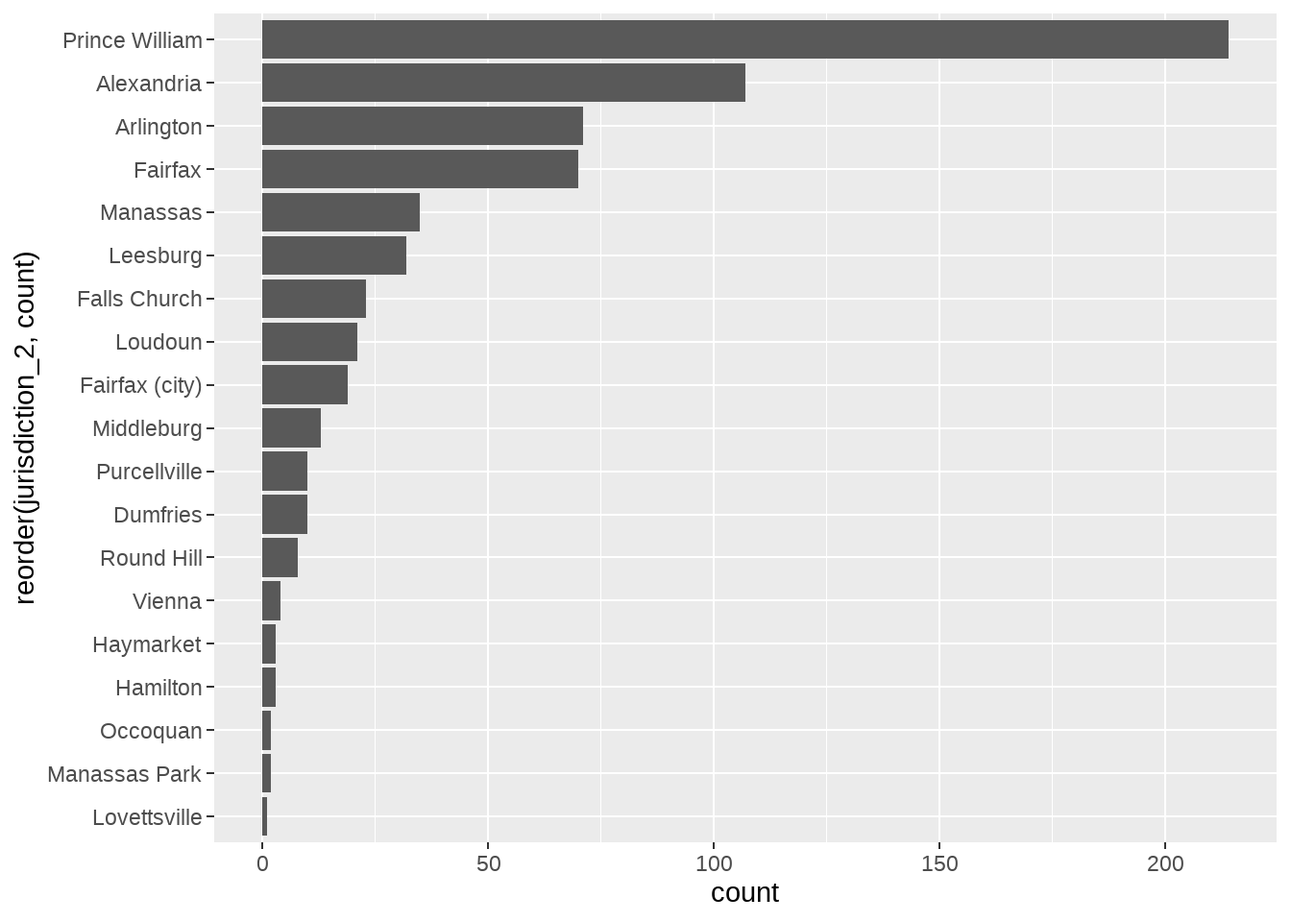
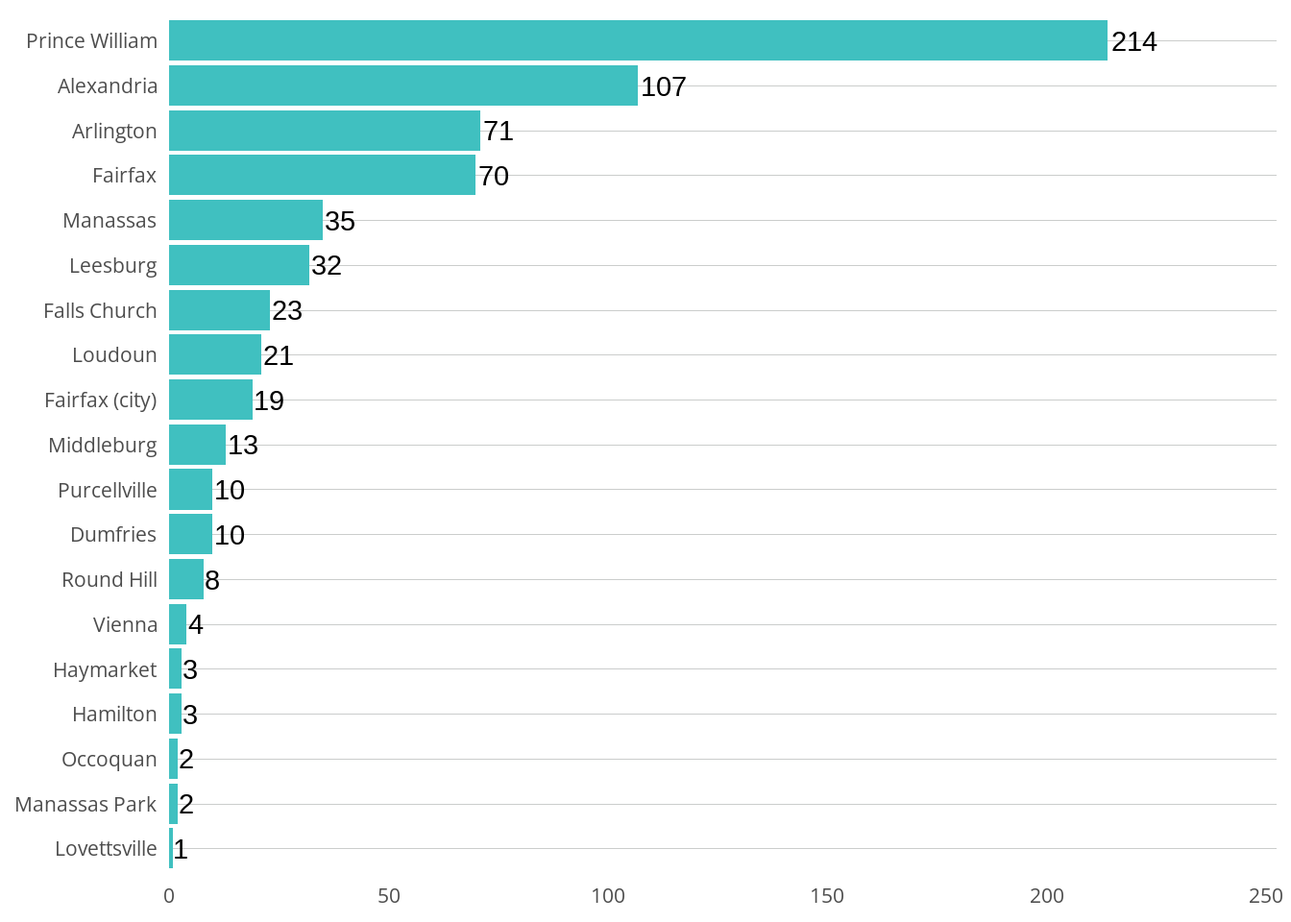
fix messed up nova plots

diff --git a/docs/site_libs/clipboard/clipboard.min.js b/docs/site_libs/clipboard/clipboard.min.js
@@ -1,7 +1,7 @@
 /*!
- * clipboard.js v2.0.10
+ * clipboard.js v2.0.11
  * https://clipboardjs.com/
  *
  * Licensed MIT © Zeno Rocha
  */
-!function(t,e){"object"==typeof exports&&"object"==typeof module?module.exports=e():"function"==typeof define&&define.amd?define([],e):"object"==typeof exports?exports.ClipboardJS=e():t.ClipboardJS=e()}(this,function(){return n={686:function(t,e,n){"use strict";n.d(e,{default:function(){return o}});var e=n(279),i=n.n(e),e=n(370),u=n.n(e),e=n(817),c=n.n(e);function a(t){try{return document.execCommand(t)}catch(t){return}}var f=function(t){t=c()(t);return a("cut"),t};var l=function(t){var e,n,o,r=1<arguments.length&&void 0!==arguments[1]?arguments[1]:{container:document.body},i="";return"string"==typeof t?(e=t,n="rtl"===document.documentElement.getAttribute("dir"),(o=document.createElement("textarea")).style.fontSize="12pt",o.style.border="0",o.style.padding="0",o.style.margin="0",o.style.position="absolute",o.style[n?"right":"left"]="-9999px",n=window.pageYOffset||document.documentElement.scrollTop,o.style.top="".concat(n,"px"),o.setAttribute("readonly",""),o.value=e,o=o,r.container.appendChild(o),i=c()(o),a("copy"),o.remove()):(i=c()(t),a("copy")),i};function r(t){return(r="function"==typeof Symbol&&"symbol"==typeof Symbol.iterator?function(t){return typeof t}:function(t){return t&&"function"==typeof Symbol&&t.constructor===Symbol&&t!==Symbol.prototype?"symbol":typeof t})(t)}var s=function(){var t=0<arguments.length&&void 0!==arguments[0]?arguments[0]:{},e=t.action,n=void 0===e?"copy":e,o=t.container,e=t.target,t=t.text;if("copy"!==n&&"cut"!==n)throw new Error('Invalid "action" value, use either "copy" or "cut"');if(void 0!==e){if(!e||"object"!==r(e)||1!==e.nodeType)throw new Error('Invalid "target" value, use a valid Element');if("copy"===n&&e.hasAttribute("disabled"))throw new Error('Invalid "target" attribute. Please use "readonly" instead of "disabled" attribute');if("cut"===n&&(e.hasAttribute("readonly")||e.hasAttribute("disabled")))throw new Error('Invalid "target" attribute. You can\'t cut text from elements with "readonly" or "disabled" attributes')}return t?l(t,{container:o}):e?"cut"===n?f(e):l(e,{container:o}):void 0};function p(t){return(p="function"==typeof Symbol&&"symbol"==typeof Symbol.iterator?function(t){return typeof t}:function(t){return t&&"function"==typeof Symbol&&t.constructor===Symbol&&t!==Symbol.prototype?"symbol":typeof t})(t)}function d(t,e){for(var n=0;n<e.length;n++){var o=e[n];o.enumerable=o.enumerable||!1,o.configurable=!0,"value"in o&&(o.writable=!0),Object.defineProperty(t,o.key,o)}}function y(t,e){return(y=Object.setPrototypeOf||function(t,e){return t.__proto__=e,t})(t,e)}function h(n){var o=function(){if("undefined"==typeof Reflect||!Reflect.construct)return!1;if(Reflect.construct.sham)return!1;if("function"==typeof Proxy)return!0;try{return Date.prototype.toString.call(Reflect.construct(Date,[],function(){})),!0}catch(t){return!1}}();return function(){var t,e=m(n);return t=o?(t=m(this).constructor,Reflect.construct(e,arguments,t)):e.apply(this,arguments),e=this,!(t=t)||"object"!==p(t)&&"function"!=typeof t?function(t){if(void 0!==t)return t;throw new ReferenceError("this hasn't been initialised - super() hasn't been called")}(e):t}}function m(t){return(m=Object.setPrototypeOf?Object.getPrototypeOf:function(t){return t.__proto__||Object.getPrototypeOf(t)})(t)}function v(t,e){t="data-clipboard-".concat(t);if(e.hasAttribute(t))return e.getAttribute(t)}var o=function(){!function(t,e){if("function"!=typeof e&&null!==e)throw new TypeError("Super expression must either be null or a function");t.prototype=Object.create(e&&e.prototype,{constructor:{value:t,writable:!0,configurable:!0}}),e&&y(t,e)}(r,i());var t,e,n,o=h(r);function r(t,e){var n;return function(t){if(!(t instanceof r))throw new TypeError("Cannot call a class as a function")}(this),(n=o.call(this)).resolveOptions(e),n.listenClick(t),n}return t=r,n=[{key:"copy",value:function(t){var e=1<arguments.length&&void 0!==arguments[1]?arguments[1]:{container:document.body};return l(t,e)}},{key:"cut",value:function(t){return f(t)}},{key:"isSupported",value:function(){var t=0<arguments.length&&void 0!==arguments[0]?arguments[0]:["copy","cut"],t="string"==typeof t?[t]:t,e=!!document.queryCommandSupported;return t.forEach(function(t){e=e&&!!document.queryCommandSupported(t)}),e}}],(e=[{key:"resolveOptions",value:function(){var t=0<arguments.length&&void 0!==arguments[0]?arguments[0]:{};this.action="function"==typeof t.action?t.action:this.defaultAction,this.target="function"==typeof t.target?t.target:this.defaultTarget,this.text="function"==typeof t.text?t.text:this.defaultText,this.container="object"===p(t.container)?t.container:document.body}},{key:"listenClick",value:function(t){var e=this;this.listener=u()(t,"click",function(t){return e.onClick(t)})}},{key:"onClick",value:function(t){var e=t.delegateTarget||t.currentTarget,n=this.action(e)||"copy",t=s({action:n,container:this.container,target:this.target(e),text:this.text(e)});this.emit(t?"success":"error",{action:n,text:t,trigger:e,clearSelection:function(){e&&e.focus(),document.activeElement.blur(),window.getSelection().removeAllRanges()}})}},{key:"defaultAction",value:function(t){return v("action",t)}},{key:"defaultTarget",value:function(t){t=v("target",t);if(t)return document.querySelector(t)}},{key:"defaultText",value:function(t){return v("text",t)}},{key:"destroy",value:function(){this.listener.destroy()}}])&&d(t.prototype,e),n&&d(t,n),r}()},828:function(t){var e;"undefined"==typeof Element||Element.prototype.matches||((e=Element.prototype).matches=e.matchesSelector||e.mozMatchesSelector||e.msMatchesSelector||e.oMatchesSelector||e.webkitMatchesSelector),t.exports=function(t,e){for(;t&&9!==t.nodeType;){if("function"==typeof t.matches&&t.matches(e))return t;t=t.parentNode}}},438:function(t,e,n){var u=n(828);function i(t,e,n,o,r){var i=function(e,n,t,o){return function(t){t.delegateTarget=u(t.target,n),t.delegateTarget&&o.call(e,t)}}.apply(this,arguments);return t.addEventListener(n,i,r),{destroy:function(){t.removeEventListener(n,i,r)}}}t.exports=function(t,e,n,o,r){return"function"==typeof t.addEventListener?i.apply(null,arguments):"function"==typeof n?i.bind(null,document).apply(null,arguments):("string"==typeof t&&(t=document.querySelectorAll(t)),Array.prototype.map.call(t,function(t){return i(t,e,n,o,r)}))}},879:function(t,n){n.node=function(t){return void 0!==t&&t instanceof HTMLElement&&1===t.nodeType},n.nodeList=function(t){var e=Object.prototype.toString.call(t);return void 0!==t&&("[object NodeList]"===e||"[object HTMLCollection]"===e)&&"length"in t&&(0===t.length||n.node(t[0]))},n.string=function(t){return"string"==typeof t||t instanceof String},n.fn=function(t){return"[object Function]"===Object.prototype.toString.call(t)}},370:function(t,e,n){var f=n(879),l=n(438);t.exports=function(t,e,n){if(!t&&!e&&!n)throw new Error("Missing required arguments");if(!f.string(e))throw new TypeError("Second argument must be a String");if(!f.fn(n))throw new TypeError("Third argument must be a Function");if(f.node(t))return c=e,a=n,(u=t).addEventListener(c,a),{destroy:function(){u.removeEventListener(c,a)}};if(f.nodeList(t))return o=t,r=e,i=n,Array.prototype.forEach.call(o,function(t){t.addEventListener(r,i)}),{destroy:function(){Array.prototype.forEach.call(o,function(t){t.removeEventListener(r,i)})}};if(f.string(t))return t=t,e=e,n=n,l(document.body,t,e,n);throw new TypeError("First argument must be a String, HTMLElement, HTMLCollection, or NodeList");var o,r,i,u,c,a}},817:function(t){t.exports=function(t){var e,n="SELECT"===t.nodeName?(t.focus(),t.value):"INPUT"===t.nodeName||"TEXTAREA"===t.nodeName?((e=t.hasAttribute("readonly"))||t.setAttribute("readonly",""),t.select(),t.setSelectionRange(0,t.value.length),e||t.removeAttribute("readonly"),t.value):(t.hasAttribute("contenteditable")&&t.focus(),n=window.getSelection(),(e=document.createRange()).selectNodeContents(t),n.removeAllRanges(),n.addRange(e),n.toString());return n}},279:function(t){function e(){}e.prototype={on:function(t,e,n){var o=this.e||(this.e={});return(o[t]||(o[t]=[])).push({fn:e,ctx:n}),this},once:function(t,e,n){var o=this;function r(){o.off(t,r),e.apply(n,arguments)}return r._=e,this.on(t,r,n)},emit:function(t){for(var e=[].slice.call(arguments,1),n=((this.e||(this.e={}))[t]||[]).slice(),o=0,r=n.length;o<r;o++)n[o].fn.apply(n[o].ctx,e);return this},off:function(t,e){var n=this.e||(this.e={}),o=n[t],r=[];if(o&&e)for(var i=0,u=o.length;i<u;i++)o[i].fn!==e&&o[i].fn._!==e&&r.push(o[i]);return r.length?n[t]=r:delete n[t],this}},t.exports=e,t.exports.TinyEmitter=e}},r={},o.n=function(t){var e=t&&t.__esModule?function(){return t.default}:function(){return t};return o.d(e,{a:e}),e},o.d=function(t,e){for(var n in e)o.o(e,n)&&!o.o(t,n)&&Object.defineProperty(t,n,{enumerable:!0,get:e[n]})},o.o=function(t,e){return Object.prototype.hasOwnProperty.call(t,e)},o(686).default;function o(t){if(r[t])return r[t].exports;var e=r[t]={exports:{}};return n[t](e,e.exports,o),e.exports}var n,r});
+!function(t,e){"object"==typeof exports&&"object"==typeof module?module.exports=e():"function"==typeof define&&define.amd?define([],e):"object"==typeof exports?exports.ClipboardJS=e():t.ClipboardJS=e()}(this,function(){return n={686:function(t,e,n){"use strict";n.d(e,{default:function(){return b}});var e=n(279),i=n.n(e),e=n(370),u=n.n(e),e=n(817),r=n.n(e);function c(t){try{return document.execCommand(t)}catch(t){return}}var a=function(t){t=r()(t);return c("cut"),t};function o(t,e){var n,o,t=(n=t,o="rtl"===document.documentElement.getAttribute("dir"),(t=document.createElement("textarea")).style.fontSize="12pt",t.style.border="0",t.style.padding="0",t.style.margin="0",t.style.position="absolute",t.style[o?"right":"left"]="-9999px",o=window.pageYOffset||document.documentElement.scrollTop,t.style.top="".concat(o,"px"),t.setAttribute("readonly",""),t.value=n,t);return e.container.appendChild(t),e=r()(t),c("copy"),t.remove(),e}var f=function(t){var e=1<arguments.length&&void 0!==arguments[1]?arguments[1]:{container:document.body},n="";return"string"==typeof t?n=o(t,e):t instanceof HTMLInputElement&&!["text","search","url","tel","password"].includes(null==t?void 0:t.type)?n=o(t.value,e):(n=r()(t),c("copy")),n};function l(t){return(l="function"==typeof Symbol&&"symbol"==typeof Symbol.iterator?function(t){return typeof t}:function(t){return t&&"function"==typeof Symbol&&t.constructor===Symbol&&t!==Symbol.prototype?"symbol":typeof t})(t)}var s=function(){var t=0<arguments.length&&void 0!==arguments[0]?arguments[0]:{},e=t.action,n=void 0===e?"copy":e,o=t.container,e=t.target,t=t.text;if("copy"!==n&&"cut"!==n)throw new Error('Invalid "action" value, use either "copy" or "cut"');if(void 0!==e){if(!e||"object"!==l(e)||1!==e.nodeType)throw new Error('Invalid "target" value, use a valid Element');if("copy"===n&&e.hasAttribute("disabled"))throw new Error('Invalid "target" attribute. Please use "readonly" instead of "disabled" attribute');if("cut"===n&&(e.hasAttribute("readonly")||e.hasAttribute("disabled")))throw new Error('Invalid "target" attribute. You can\'t cut text from elements with "readonly" or "disabled" attributes')}return t?f(t,{container:o}):e?"cut"===n?a(e):f(e,{container:o}):void 0};function p(t){return(p="function"==typeof Symbol&&"symbol"==typeof Symbol.iterator?function(t){return typeof t}:function(t){return t&&"function"==typeof Symbol&&t.constructor===Symbol&&t!==Symbol.prototype?"symbol":typeof t})(t)}function d(t,e){for(var n=0;n<e.length;n++){var o=e[n];o.enumerable=o.enumerable||!1,o.configurable=!0,"value"in o&&(o.writable=!0),Object.defineProperty(t,o.key,o)}}function y(t,e){return(y=Object.setPrototypeOf||function(t,e){return t.__proto__=e,t})(t,e)}function h(n){var o=function(){if("undefined"==typeof Reflect||!Reflect.construct)return!1;if(Reflect.construct.sham)return!1;if("function"==typeof Proxy)return!0;try{return Date.prototype.toString.call(Reflect.construct(Date,[],function(){})),!0}catch(t){return!1}}();return function(){var t,e=v(n);return t=o?(t=v(this).constructor,Reflect.construct(e,arguments,t)):e.apply(this,arguments),e=this,!(t=t)||"object"!==p(t)&&"function"!=typeof t?function(t){if(void 0!==t)return t;throw new ReferenceError("this hasn't been initialised - super() hasn't been called")}(e):t}}function v(t){return(v=Object.setPrototypeOf?Object.getPrototypeOf:function(t){return t.__proto__||Object.getPrototypeOf(t)})(t)}function m(t,e){t="data-clipboard-".concat(t);if(e.hasAttribute(t))return e.getAttribute(t)}var b=function(){!function(t,e){if("function"!=typeof e&&null!==e)throw new TypeError("Super expression must either be null or a function");t.prototype=Object.create(e&&e.prototype,{constructor:{value:t,writable:!0,configurable:!0}}),e&&y(t,e)}(r,i());var t,e,n,o=h(r);function r(t,e){var n;return function(t){if(!(t instanceof r))throw new TypeError("Cannot call a class as a function")}(this),(n=o.call(this)).resolveOptions(e),n.listenClick(t),n}return t=r,n=[{key:"copy",value:function(t){var e=1<arguments.length&&void 0!==arguments[1]?arguments[1]:{container:document.body};return f(t,e)}},{key:"cut",value:function(t){return a(t)}},{key:"isSupported",value:function(){var t=0<arguments.length&&void 0!==arguments[0]?arguments[0]:["copy","cut"],t="string"==typeof t?[t]:t,e=!!document.queryCommandSupported;return t.forEach(function(t){e=e&&!!document.queryCommandSupported(t)}),e}}],(e=[{key:"resolveOptions",value:function(){var t=0<arguments.length&&void 0!==arguments[0]?arguments[0]:{};this.action="function"==typeof t.action?t.action:this.defaultAction,this.target="function"==typeof t.target?t.target:this.defaultTarget,this.text="function"==typeof t.text?t.text:this.defaultText,this.container="object"===p(t.container)?t.container:document.body}},{key:"listenClick",value:function(t){var e=this;this.listener=u()(t,"click",function(t){return e.onClick(t)})}},{key:"onClick",value:function(t){var e=t.delegateTarget||t.currentTarget,n=this.action(e)||"copy",t=s({action:n,container:this.container,target:this.target(e),text:this.text(e)});this.emit(t?"success":"error",{action:n,text:t,trigger:e,clearSelection:function(){e&&e.focus(),window.getSelection().removeAllRanges()}})}},{key:"defaultAction",value:function(t){return m("action",t)}},{key:"defaultTarget",value:function(t){t=m("target",t);if(t)return document.querySelector(t)}},{key:"defaultText",value:function(t){return m("text",t)}},{key:"destroy",value:function(){this.listener.destroy()}}])&&d(t.prototype,e),n&&d(t,n),r}()},828:function(t){var e;"undefined"==typeof Element||Element.prototype.matches||((e=Element.prototype).matches=e.matchesSelector||e.mozMatchesSelector||e.msMatchesSelector||e.oMatchesSelector||e.webkitMatchesSelector),t.exports=function(t,e){for(;t&&9!==t.nodeType;){if("function"==typeof t.matches&&t.matches(e))return t;t=t.parentNode}}},438:function(t,e,n){var u=n(828);function i(t,e,n,o,r){var i=function(e,n,t,o){return function(t){t.delegateTarget=u(t.target,n),t.delegateTarget&&o.call(e,t)}}.apply(this,arguments);return t.addEventListener(n,i,r),{destroy:function(){t.removeEventListener(n,i,r)}}}t.exports=function(t,e,n,o,r){return"function"==typeof t.addEventListener?i.apply(null,arguments):"function"==typeof n?i.bind(null,document).apply(null,arguments):("string"==typeof t&&(t=document.querySelectorAll(t)),Array.prototype.map.call(t,function(t){return i(t,e,n,o,r)}))}},879:function(t,n){n.node=function(t){return void 0!==t&&t instanceof HTMLElement&&1===t.nodeType},n.nodeList=function(t){var e=Object.prototype.toString.call(t);return void 0!==t&&("[object NodeList]"===e||"[object HTMLCollection]"===e)&&"length"in t&&(0===t.length||n.node(t[0]))},n.string=function(t){return"string"==typeof t||t instanceof String},n.fn=function(t){return"[object Function]"===Object.prototype.toString.call(t)}},370:function(t,e,n){var f=n(879),l=n(438);t.exports=function(t,e,n){if(!t&&!e&&!n)throw new Error("Missing required arguments");if(!f.string(e))throw new TypeError("Second argument must be a String");if(!f.fn(n))throw new TypeError("Third argument must be a Function");if(f.node(t))return c=e,a=n,(u=t).addEventListener(c,a),{destroy:function(){u.removeEventListener(c,a)}};if(f.nodeList(t))return o=t,r=e,i=n,Array.prototype.forEach.call(o,function(t){t.addEventListener(r,i)}),{destroy:function(){Array.prototype.forEach.call(o,function(t){t.removeEventListener(r,i)})}};if(f.string(t))return t=t,e=e,n=n,l(document.body,t,e,n);throw new TypeError("First argument must be a String, HTMLElement, HTMLCollection, or NodeList");var o,r,i,u,c,a}},817:function(t){t.exports=function(t){var e,n="SELECT"===t.nodeName?(t.focus(),t.value):"INPUT"===t.nodeName||"TEXTAREA"===t.nodeName?((e=t.hasAttribute("readonly"))||t.setAttribute("readonly",""),t.select(),t.setSelectionRange(0,t.value.length),e||t.removeAttribute("readonly"),t.value):(t.hasAttribute("contenteditable")&&t.focus(),n=window.getSelection(),(e=document.createRange()).selectNodeContents(t),n.removeAllRanges(),n.addRange(e),n.toString());return n}},279:function(t){function e(){}e.prototype={on:function(t,e,n){var o=this.e||(this.e={});return(o[t]||(o[t]=[])).push({fn:e,ctx:n}),this},once:function(t,e,n){var o=this;function r(){o.off(t,r),e.apply(n,arguments)}return r._=e,this.on(t,r,n)},emit:function(t){for(var e=[].slice.call(arguments,1),n=((this.e||(this.e={}))[t]||[]).slice(),o=0,r=n.length;o<r;o++)n[o].fn.apply(n[o].ctx,e);return this},off:function(t,e){var n=this.e||(this.e={}),o=n[t],r=[];if(o&&e)for(var i=0,u=o.length;i<u;i++)o[i].fn!==e&&o[i].fn._!==e&&r.push(o[i]);return r.length?n[t]=r:delete n[t],this}},t.exports=e,t.exports.TinyEmitter=e}},r={},o.n=function(t){var e=t&&t.__esModule?function(){return t.default}:function(){return t};return o.d(e,{a:e}),e},o.d=function(t,e){for(var n in e)o.o(e,n)&&!o.o(t,n)&&Object.defineProperty(t,n,{enumerable:!0,get:e[n]})},o.o=function(t,e){return Object.prototype.hasOwnProperty.call(t,e)},o(686).default;function o(t){if(r[t])return r[t].exports;var e=r[t]={exports:{}};return n[t](e,e.exports,o),e.exports}var n,r});

diff --git a/docs/part-2.html b/docs/part-2.html
@@ -495,17 +495,6 @@ James City
 </div>
 </div>
 <div class="cell">
-<div class="cell-output cell-output-stdout">
-<pre><code>function (x) 
-{
-    number(x, accuracy = accuracy, scale = scale, prefix = prefix, 
-        suffix = suffix, big.mark = big.mark, decimal.mark = decimal.mark, 
-        style_positive = style_positive, style_negative = style_negative, 
-        scale_cut = scale_cut, trim = trim, ...)
-}
-&lt;bytecode: 0x0000019d9ca2d450&gt;
-&lt;environment: 0x0000019d9d87adb8&gt;</code></pre>
-</div>
 <div class="cell-output-display">
 <div id="fig-nova-acres" class="quarto-figure quarto-figure-center anchored">
 <figure class="figure">
@@ -522,8 +511,8 @@ James City
 <div class="quarto-layout-row quarto-layout-valign-top">
 <div class="cell-output-display quarto-layout-cell" style="flex-basis: 100.0%;justify-content: center;">
 
-<div class="datatables html-widget html-fill-item" id="htmlwidget-f1d735c3bddcad078c95" style="width:100%;height:auto;"></div>
-<script type="application/json" data-for="htmlwidget-f1d735c3bddcad078c95">{"x":{"style":"bootstrap","filter":"none","vertical":false,"caption":"<caption style=\"caption-side: top; text-align: left; color: grey; font-size: 20px; &#10;            font-family: &quot;Open Sans&quot;, sans-serif;&#10;            padding-bottom: 20px;&#10;            font-weight: bold;&#10;            \">Percent of parcels zoned by-right<\/caption>","fillContainer":true,"data":[["Alexandria","Arlington","Dumfries","Fairfax","Fairfax (city)","Falls Church","Hamilton","Haymarket","Leesburg","Loudoun","Lovettsville","Manassas","Manassas Park","Middleburg","Occoquan","Prince William","Purcellville","Round Hill","Vienna"],[107,71,10,70,19,23,3,3,32,21,1,35,2,13,2,214,10,8,4],[0.972,0.7465000000000001,0.5,0.4857,0.5789,0.7826000000000001,1,1,0.875,0.2381,1,0.6,1,1,0,0.7290000000000001,0.6,1,0.75],[0.972,0.7042,0.6,0.2286,0,0.5217000000000001,0,1,0.7188,0,0,0.2286,0,0.3846,0,0.1215,0.1,0.125,0.25],[0.8504999999999999,0.7042,0.1,0.0429,0,0.4348,0,0,0.25,0,0,0.2286,0,0.3077,0,0.1308,0,0.125,0.25]],"container":"<table class=\"table table-striped table-hover row-border order-column display fill-container\">\n  <thead>\n    <tr>\n      <th>Jurisdiction<\/th>\n      <th>Parcel Count<\/th>\n      <th>Single-Family<\/th>\n      <th>Duplex<\/th>\n      <th>Multifamily<\/th>\n    <\/tr>\n  <\/thead>\n<\/table>","options":{"pageLength":-1,"dom":"t","scrollY":"400px","scrollCollapse":true,"initComplete":"function(settings, json) {\n$(this.api().table().header()).css({'font-family': 'Open Sans'});\n}","columnDefs":[{"targets":2,"render":"function(data, type, row, meta) {\n    return type !== 'display' ? data : DTWidget.formatPercentage(data, 1, 3, \",\", \".\", null);\n  }"},{"targets":3,"render":"function(data, type, row, meta) {\n    return type !== 'display' ? data : DTWidget.formatPercentage(data, 1, 3, \",\", \".\", null);\n  }"},{"targets":4,"render":"function(data, type, row, meta) {\n    return type !== 'display' ? data : DTWidget.formatPercentage(data, 1, 3, \",\", \".\", null);\n  }"},{"className":"dt-center","targets":[1,2,3,4]},{"name":"jurisdiction","targets":0},{"name":"parcels","targets":1},{"name":"single_fam","targets":2},{"name":"duplex","targets":3},{"name":"multifamily","targets":4}],"order":[],"autoWidth":false,"orderClasses":false,"lengthMenu":[-1,10,25,50,100],"rowCallback":"function(row, data, displayNum, displayIndex, dataIndex) {\nvar value=data[2]; $(this.api().cell(row, 2).node()).css({'background':isNaN(parseFloat(value)) || value <= 0.000000 ? '' : 'linear-gradient(90.000000deg, transparent ' + Math.max(1.000000 - value, 0)/1.000000 * 100 + '%, #40c0c0 ' + Math.max(1.000000 - value, 0)/1.000000 * 100 + '%)','background-size':'98% 88%','background-repeat':'no-repeat','background-position':'center'});\nvar value=data[3]; $(this.api().cell(row, 3).node()).css({'background':isNaN(parseFloat(value)) || value <= 0.000000 ? '' : 'linear-gradient(90.000000deg, transparent ' + Math.max(1.000000 - value, 0)/1.000000 * 100 + '%, #8b85ca ' + Math.max(1.000000 - value, 0)/1.000000 * 100 + '%)','background-size':'98% 88%','background-repeat':'no-repeat','background-position':'center'});\nvar value=data[4]; $(this.api().cell(row, 4).node()).css({'background':isNaN(parseFloat(value)) || value <= 0.000000 ? '' : 'linear-gradient(90.000000deg, transparent ' + Math.max(0.850500 - value, 0)/0.850500 * 100 + '%, #011e41 ' + Math.max(0.850500 - value, 0)/0.850500 * 100 + '%)','background-size':'98% 88%','background-repeat':'no-repeat','background-position':'center'});\nvar value=data[0]; $(this.api().cell(row, 0).node()).css({'font-family':'Open Sans'});\nvar value=data[1]; $(this.api().cell(row, 1).node()).css({'font-family':'Open Sans'});\nvar value=data[2]; $(this.api().cell(row, 2).node()).css({'font-family':'Open Sans'});\nvar value=data[3]; $(this.api().cell(row, 3).node()).css({'font-family':'Open Sans'});\nvar value=data[4]; $(this.api().cell(row, 4).node()).css({'font-family':'Open Sans'});\n}"}},"evals":["options.initComplete","options.columnDefs.0.render","options.columnDefs.1.render","options.columnDefs.2.render","options.rowCallback"],"jsHooks":[]}</script>
+<div class="datatables html-widget html-fill-item" id="htmlwidget-09dbda052bdebb7b6924" style="width:100%;height:auto;"></div>
+<script type="application/json" data-for="htmlwidget-09dbda052bdebb7b6924">{"x":{"style":"bootstrap","filter":"none","vertical":false,"caption":"<caption style=\"caption-side: top; text-align: left; color: grey; font-size: 20px; &#10;            font-family: &quot;Open Sans&quot;, sans-serif;&#10;            padding-bottom: 20px;&#10;            font-weight: bold;&#10;            \">Percent of parcels zoned by-right<\/caption>","fillContainer":true,"data":[["Alexandria","Arlington","Dumfries","Fairfax","Fairfax (city)","Falls Church","Hamilton","Haymarket","Leesburg","Loudoun","Lovettsville","Manassas","Manassas Park","Middleburg","Occoquan","Prince William","Purcellville","Round Hill","Vienna"],[107,71,10,70,19,23,3,3,32,21,1,35,2,13,2,214,10,8,4],[0.972,0.7465000000000001,0.5,0.4857,0.5789,0.7826000000000001,1,1,0.875,0.2381,1,0.6,1,1,0,0.7290000000000001,0.6,1,0.75],[0.972,0.7042,0.6,0.2286,0,0.5217000000000001,0,1,0.7188,0,0,0.2286,0,0.3846,0,0.1215,0.1,0.125,0.25],[0.8504999999999999,0.7042,0.1,0.0429,0,0.4348,0,0,0.25,0,0,0.2286,0,0.3077,0,0.1308,0,0.125,0.25]],"container":"<table class=\"table table-striped table-hover row-border order-column display fill-container\">\n  <thead>\n    <tr>\n      <th>Jurisdiction<\/th>\n      <th>Parcel Count<\/th>\n      <th>Single-Family<\/th>\n      <th>Duplex<\/th>\n      <th>Multifamily<\/th>\n    <\/tr>\n  <\/thead>\n<\/table>","options":{"pageLength":-1,"dom":"t","scrollY":"400px","scrollCollapse":true,"initComplete":"function(settings, json) {\n$(this.api().table().header()).css({'font-family': 'Open Sans'});\n}","columnDefs":[{"targets":2,"render":"function(data, type, row, meta) {\n    return type !== 'display' ? data : DTWidget.formatPercentage(data, 1, 3, \",\", \".\", null);\n  }"},{"targets":3,"render":"function(data, type, row, meta) {\n    return type !== 'display' ? data : DTWidget.formatPercentage(data, 1, 3, \",\", \".\", null);\n  }"},{"targets":4,"render":"function(data, type, row, meta) {\n    return type !== 'display' ? data : DTWidget.formatPercentage(data, 1, 3, \",\", \".\", null);\n  }"},{"className":"dt-center","targets":[1,2,3,4]},{"name":"jurisdiction","targets":0},{"name":"parcels","targets":1},{"name":"single_fam","targets":2},{"name":"duplex","targets":3},{"name":"multifamily","targets":4}],"order":[],"autoWidth":false,"orderClasses":false,"lengthMenu":[-1,10,25,50,100],"rowCallback":"function(row, data, displayNum, displayIndex, dataIndex) {\nvar value=data[2]; $(this.api().cell(row, 2).node()).css({'background':isNaN(parseFloat(value)) || value <= 0.000000 ? '' : 'linear-gradient(90.000000deg, transparent ' + Math.max(1.000000 - value, 0)/1.000000 * 100 + '%, #40c0c0 ' + Math.max(1.000000 - value, 0)/1.000000 * 100 + '%)','background-size':'98% 88%','background-repeat':'no-repeat','background-position':'center'});\nvar value=data[3]; $(this.api().cell(row, 3).node()).css({'background':isNaN(parseFloat(value)) || value <= 0.000000 ? '' : 'linear-gradient(90.000000deg, transparent ' + Math.max(1.000000 - value, 0)/1.000000 * 100 + '%, #8b85ca ' + Math.max(1.000000 - value, 0)/1.000000 * 100 + '%)','background-size':'98% 88%','background-repeat':'no-repeat','background-position':'center'});\nvar value=data[4]; $(this.api().cell(row, 4).node()).css({'background':isNaN(parseFloat(value)) || value <= 0.000000 ? '' : 'linear-gradient(90.000000deg, transparent ' + Math.max(0.850500 - value, 0)/0.850500 * 100 + '%, #011e41 ' + Math.max(0.850500 - value, 0)/0.850500 * 100 + '%)','background-size':'98% 88%','background-repeat':'no-repeat','background-position':'center'});\nvar value=data[0]; $(this.api().cell(row, 0).node()).css({'font-family':'Open Sans'});\nvar value=data[1]; $(this.api().cell(row, 1).node()).css({'font-family':'Open Sans'});\nvar value=data[2]; $(this.api().cell(row, 2).node()).css({'font-family':'Open Sans'});\nvar value=data[3]; $(this.api().cell(row, 3).node()).css({'font-family':'Open Sans'});\nvar value=data[4]; $(this.api().cell(row, 4).node()).css({'font-family':'Open Sans'});\n}"}},"evals":["options.initComplete","options.columnDefs.0.render","options.columnDefs.1.render","options.columnDefs.2.render","options.rowCallback"],"jsHooks":[]}</script>
 </div>
 </div>
 </div>
